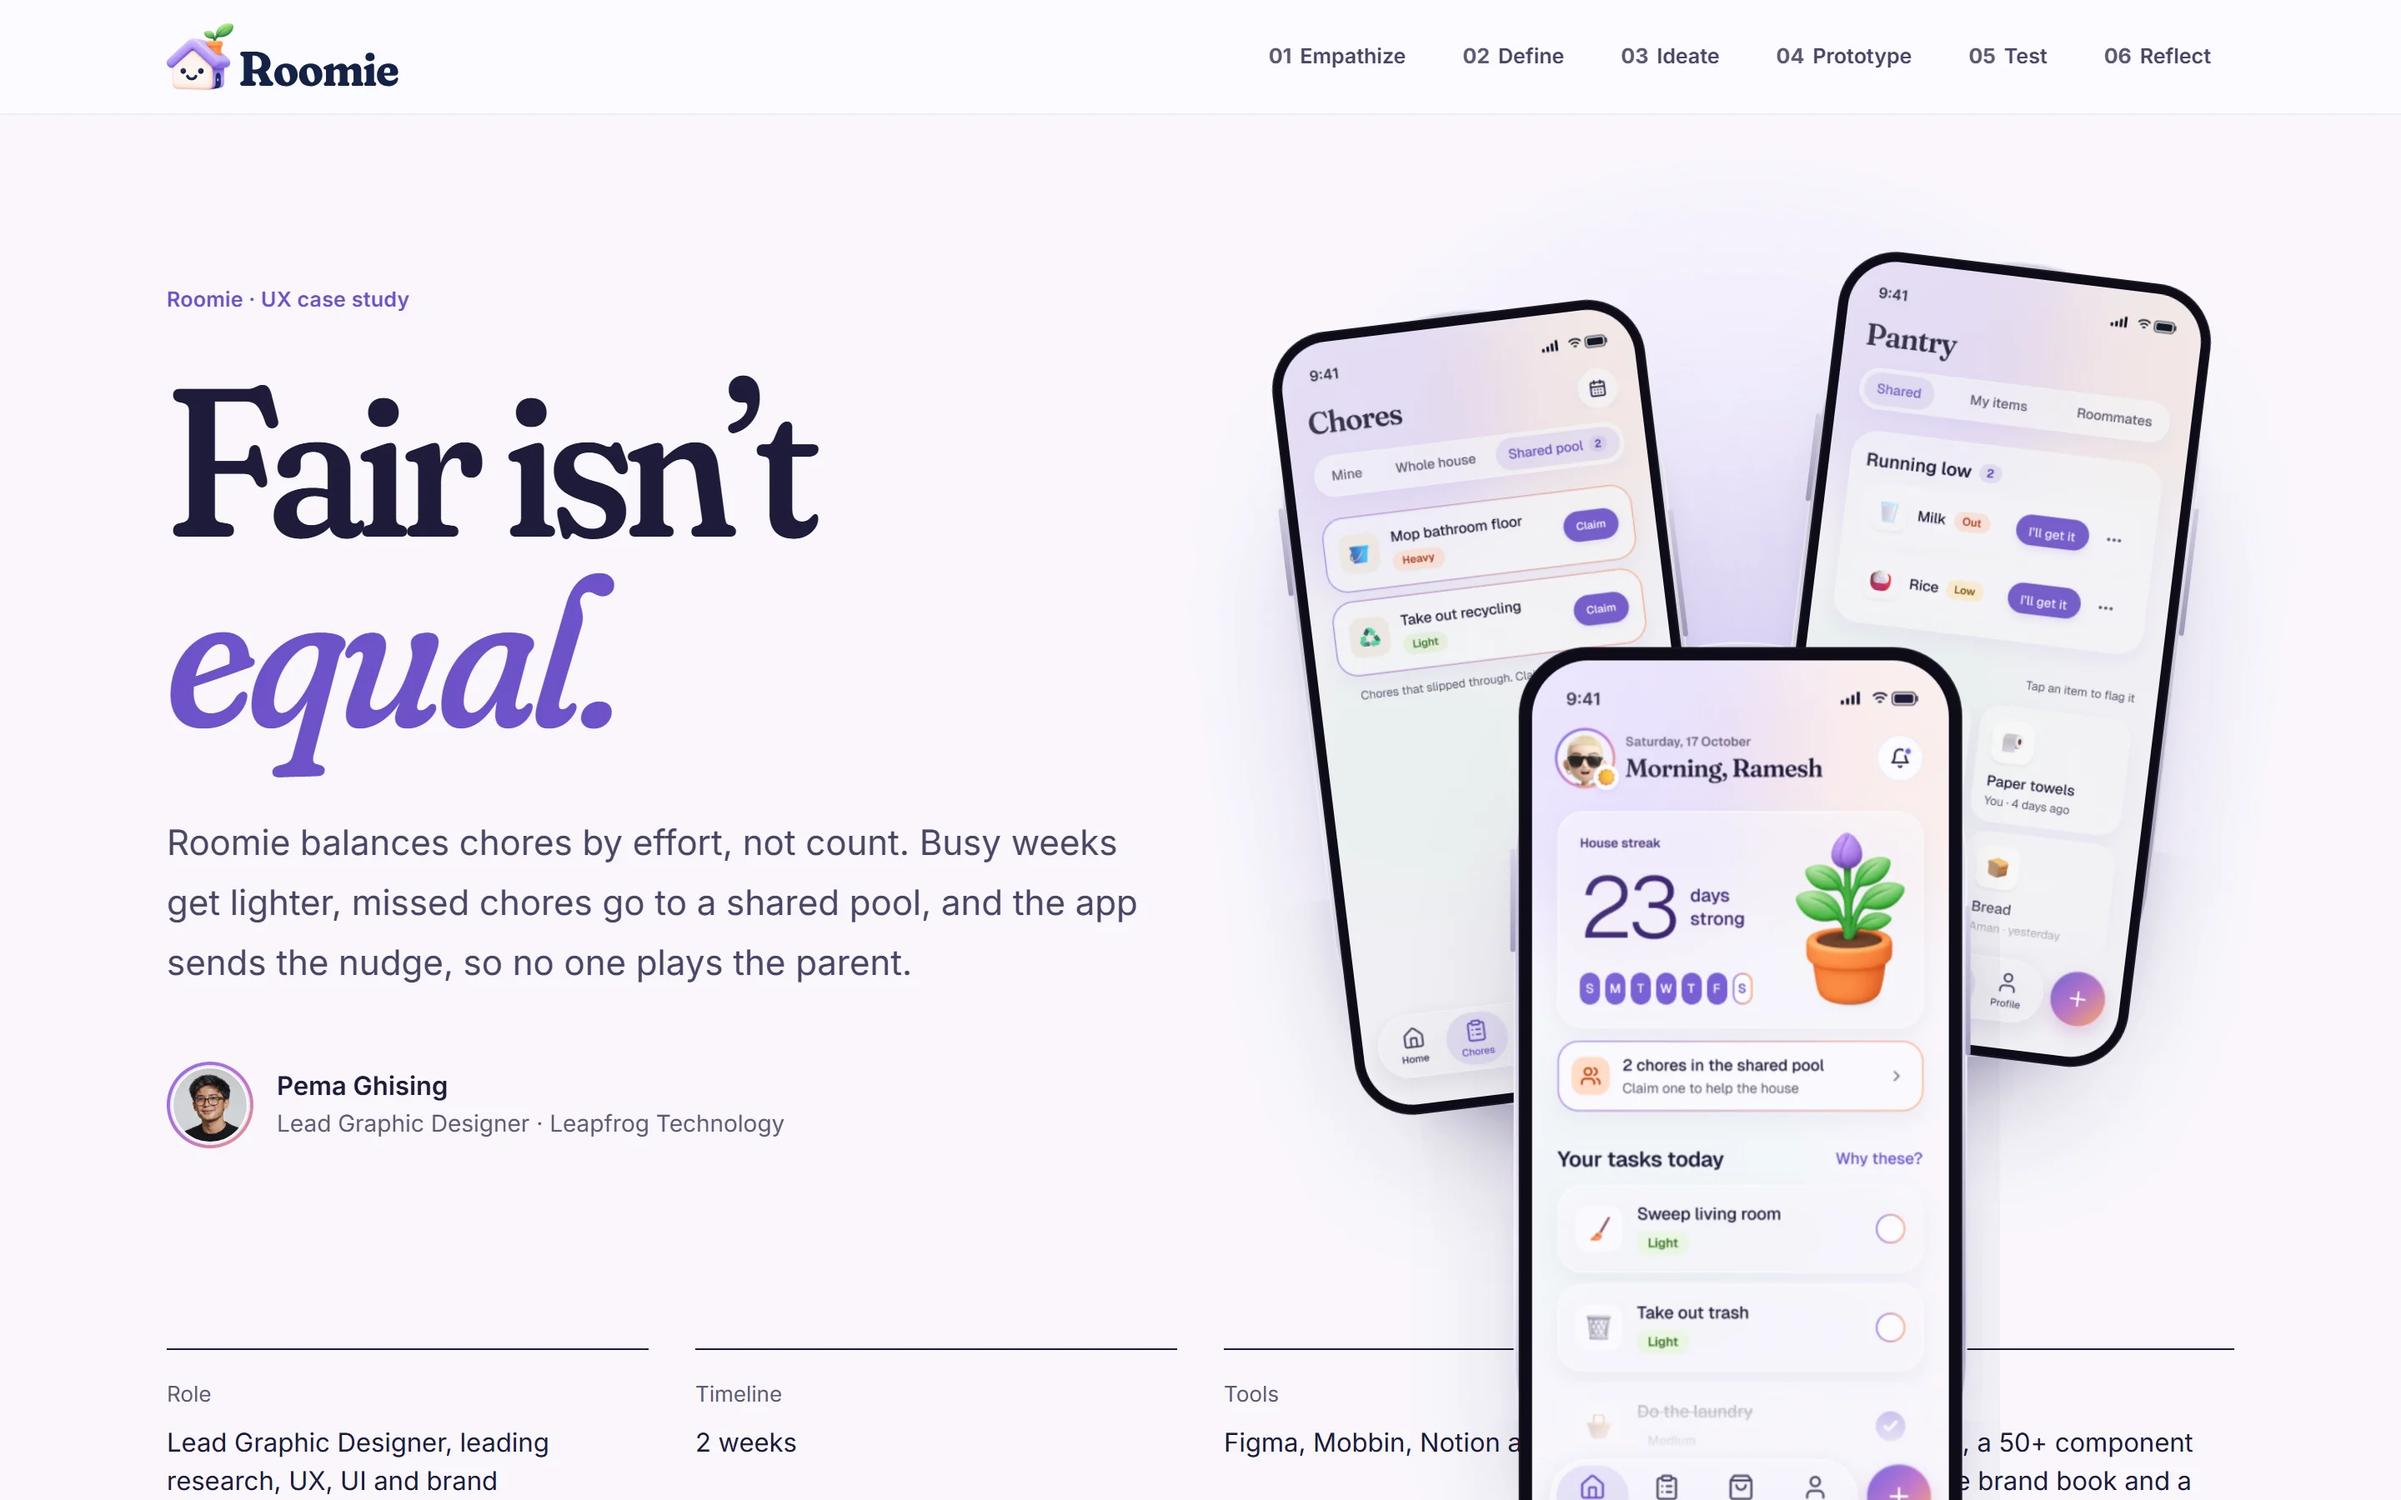
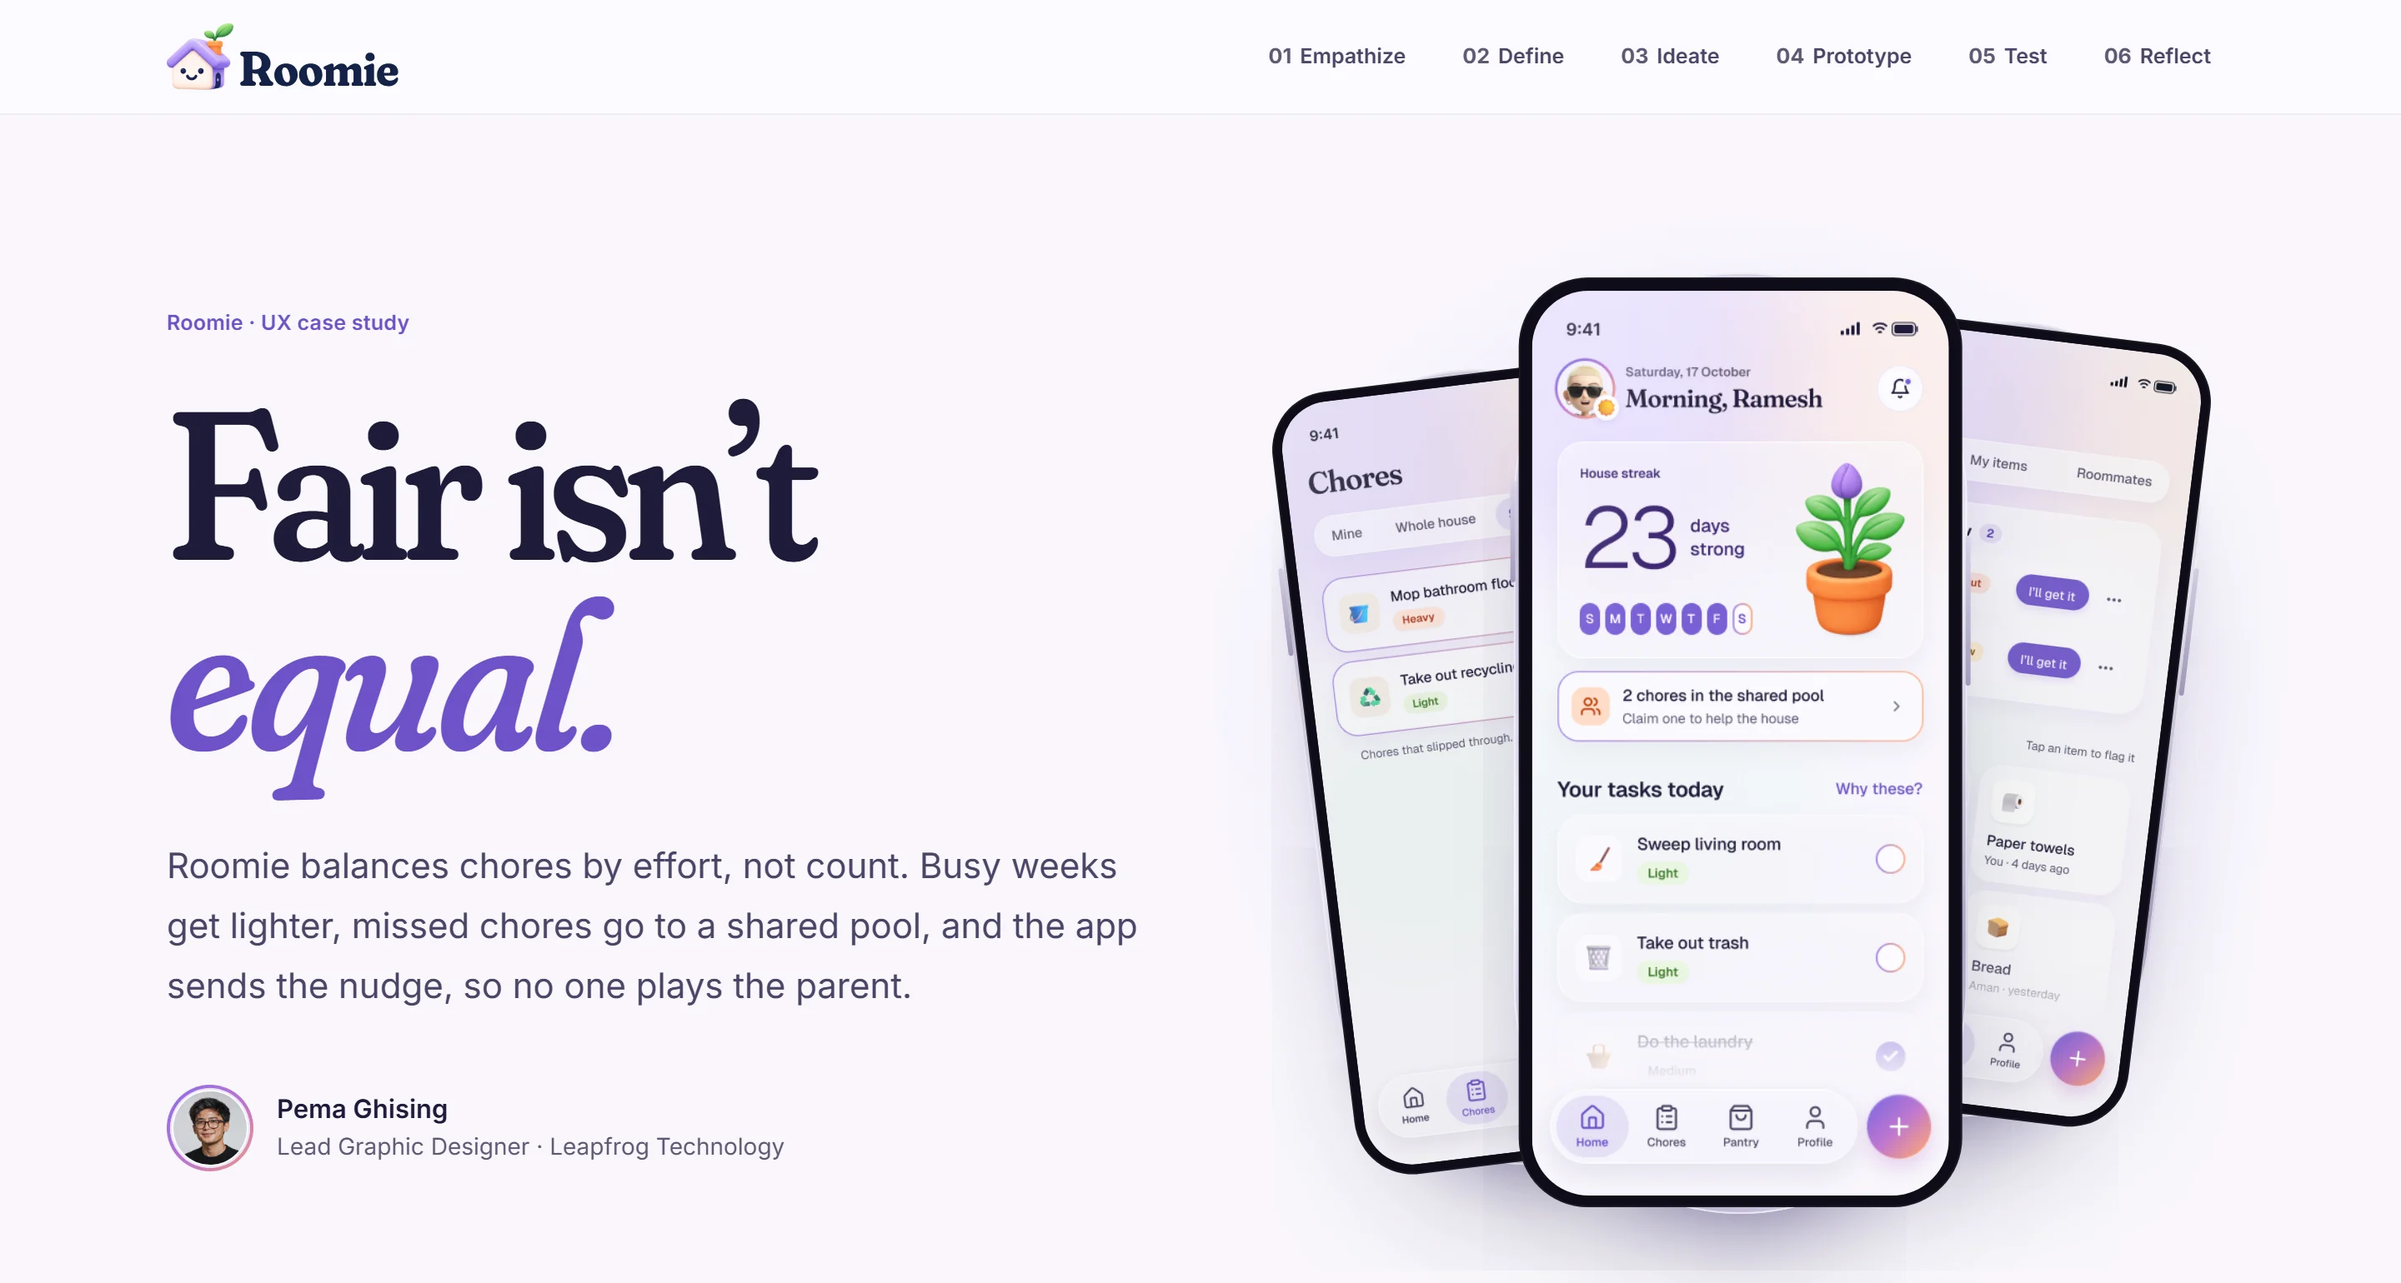
feat(site): hero becomes a 3D stage; README case study shot settled and cropped
- three phones on a glossy floor with reflections; Pantry and the shared pool hinge open from Home
- opens once, scroll only opens it further, the scene leans toward the pointer
- README: case study hero captured after its entrance, without the facts row

diff --git a/apps/site/src/sections/hero.css b/apps/site/src/sections/hero.css
@@ -74,39 +74,43 @@
 .hero-center .lede span { display: block; }   /* one sentence per line */
 .hero-cta { margin-top: 32px; display: flex; align-items: center; justify-content: center; gap: 16px; flex-wrap: wrap; }
 
-/* The first screen is the product alone: three full phones, nothing else. The promise follows on scroll. */
+/* The first screen is the product alone: three phones standing on a glossy lilac floor, in real 3D.
+   Home faces you; Pantry and the shared pool hinge open from its edges like a book. */
 .hero-stage {
   position: relative; display: grid; place-items: center;
-  --pw: clamp(220px, min(25vw, (100svh - 168px) / 2.1), 370px);
-  height: 100svh; min-height: 620px; padding-top: 72px;
+  --pw: clamp(200px, min(19vw, (100svh - 260px) / 2.08), 330px);
+  height: 100svh; min-height: 640px; padding-top: 0;
+  perspective: 2200px; perspective-origin: 50% 40%;
 }
-/* A fan of three real screens: Home in front, Pantry and the shared pool angled behind it */
-.hero-fan { position: relative; width: var(--pw); height: calc(var(--pw) * 2.08); }
-/* light behind the fan, and the shadow it casts on the floor */
-.hero-fan::before {
-  content: ""; position: absolute; z-index: 0; left: 50%; top: 46%; translate: -50% -50%;
-  width: calc(var(--pw) * 4.2); height: calc(var(--pw) * 2.4); border-radius: 50%;
-  background: radial-gradient(closest-side, rgba(164, 137, 237, .42), rgba(255, 180, 138, .18) 55%, transparent 100%);
-  filter: blur(30px); pointer-events: none;
+.hero-scene { position: relative; width: var(--pw); height: calc(var(--pw) * 2.08); transform-style: preserve-3d; }
+/* light pooling behind the phones */
+.hero-scene::before {
+  content: ""; position: absolute; left: 50%; top: 42%; translate: -50% -50%;
+  width: calc(var(--pw) * 4.6); height: calc(var(--pw) * 2.6); border-radius: 50%;
+  background: radial-gradient(closest-side, rgba(164, 137, 237, .45), rgba(255, 180, 138, .2) 58%, transparent 100%);
+  filter: blur(40px); transform: translateZ(-400px) scale(1.2); pointer-events: none;
 }
-.hero-fan::after {
-  content: ""; position: absolute; z-index: 0; left: 50%; bottom: calc(var(--pw) * -.06); translate: -50% 0;
-  width: calc(var(--pw) * 2.9); height: calc(var(--pw) * .22); border-radius: 50%;
-  background: radial-gradient(closest-side, rgba(31, 27, 58, .28), transparent);
-  filter: blur(10px); pointer-events: none;
+/* the floor line the phones stand on */
+.hero-scene::after {
+  content: ""; position: absolute; left: 50%; top: 100%; translate: -50% 0;
+  width: calc(var(--pw) * 4); height: 1px;
+  background: linear-gradient(90deg, transparent, rgba(122, 95, 214, .25), transparent);
+  pointer-events: none;
 }
-.hero-phone { --phone-w: var(--pw); position: absolute; left: 0; top: 0; }
+.hero-phone { --phone-w: var(--pw); position: absolute; left: 0; bottom: 0; transform-style: preserve-3d;
+  /* the reflection in the floor */
+  -webkit-box-reflect: below 10px linear-gradient(transparent 78%, rgba(255, 255, 255, .22)); }
 .hero-phone--main { z-index: 2; }
-.hero-phone--side { --phone-w: calc(var(--pw) * .86); top: calc(var(--pw) * .2); z-index: 1; }
-.hero-phone--l { left: calc(var(--pw) * -.66); rotate: -7deg; transform-origin: 100% 100%; }
-.hero-phone--r { left: calc(var(--pw) * .8); rotate: 7deg; transform-origin: 0% 100%; }
-.hero-phone--side .bezel { filter: saturate(.92) brightness(.985); }
+.hero-phone--side { --phone-w: calc(var(--pw) * .92); z-index: 1; }
+.hero-phone--l { left: calc(var(--pw) * -.9); transform-origin: 100% 50%; transform: translateZ(-90px) rotateY(40deg); }
+.hero-phone--r { left: calc(var(--pw) * .98); transform-origin: 0% 50%; transform: translateZ(-90px) rotateY(-40deg); }
+.hero-phone--side .bezel { filter: saturate(.94) brightness(.97); }
 .tag { flex: none; }
 .tag { display: inline-flex; align-items: center; padding: 4px 10px; border-radius: 999px; font-size: 13px; font-weight: 600; }
 .tag--heavy { background: var(--heavy-bg); color: var(--heavy-fg); }
 
 @media (max-width: 860px) {
-  .hero-stage { --pw: clamp(170px, min(56vw, (100svh - 150px) / 2.15), 280px); min-height: 520px; }
-  .hero-phone--l { left: calc(var(--pw) * -.58); }
-  .hero-phone--r { left: calc(var(--pw) * .72); }
+  .hero-stage { --pw: clamp(160px, min(46vw, (100svh - 240px) / 2.1), 260px); min-height: 540px; }
+  .hero-phone--l { left: calc(var(--pw) * -.78); }
+  .hero-phone--r { left: calc(var(--pw) * .86); }
 }

diff --git a/apps/site/src/sections/Hero.tsx b/apps/site/src/sections/Hero.tsx
@@ -29,15 +29,30 @@ export function Hero() {
   useEffect(() => {
     if (!motionOK || !root.current) return;
     const ctx = gsap.context(() => {
-      // The fan opens: Home rises, then the side phones slide out from behind it.
-      gsap.from(".hero-phone--main", { opacity: 0, y: 60, duration: 1.3, ease: "expo.out" });
-      gsap.from(".hero-phone--l", { opacity: 0, x: 120, rotate: 0, duration: 1.4, delay: 0.25, ease: "expo.out" });
-      gsap.from(".hero-phone--r", { opacity: 0, x: -120, rotate: 0, duration: 1.4, delay: 0.25, ease: "expo.out" });
-      // On scroll the fan spreads a little and the front layers lift faster than the back ones.
-      const scroll = { trigger: root.current, start: "top top", end: "bottom top", scrub: true };
-      gsap.to(".hero-fan", { yPercent: -8, scale: 0.94, ease: "none", scrollTrigger: scroll });
-      gsap.to(".hero-phone--l", { xPercent: -10, rotate: -10, ease: "none", scrollTrigger: scroll });
-      gsap.to(".hero-phone--r", { xPercent: 10, rotate: 10, ease: "none", scrollTrigger: scroll });
+      // GSAP owns every transform here, so the entrance, scroll and pointer layers never fight.
+      gsap.set(".hero-phone--l", { rotationY: 40, z: -90 });
+      gsap.set(".hero-phone--r", { rotationY: -40, z: -90 });
+      // Open once: Home rises onto the floor, then the side phones swing open from its edges.
+      gsap.from(".hero-phone--main", { opacity: 0, y: 70, duration: 1.4, ease: "expo.out" });
+      gsap.from(".hero-phone--l", { opacity: 0, rotationY: 88, duration: 1.8, delay: 0.35, ease: "expo.out" });
+      gsap.from(".hero-phone--r", { opacity: 0, rotationY: -88, duration: 1.8, delay: 0.35, ease: "expo.out" });
+      // Scrolling keeps opening the book flat while the scene sinks back.
+      const scroll = { trigger: root.current, start: "top top", end: "bottom top", scrub: 0.6 };
+      gsap.to(".hero-phone--l", { rotationY: 18, ease: "none", scrollTrigger: scroll, immediateRender: false });
+      gsap.to(".hero-phone--r", { rotationY: -18, ease: "none", scrollTrigger: scroll, immediateRender: false });
+      gsap.to(".hero-scene", { yPercent: -8, scale: 0.9, ease: "none", scrollTrigger: scroll });
+      // The scene leans a few degrees toward the pointer.
+      const scene = root.current?.querySelector<HTMLElement>(".hero-scene");
+      if (scene && window.matchMedia("(pointer: fine)").matches) {
+        const rx = gsap.quickTo(scene, "rotationX", { duration: 0.9, ease: "power3.out" });
+        const ry = gsap.quickTo(scene, "rotationY", { duration: 0.9, ease: "power3.out" });
+        const onMove = (e: PointerEvent) => {
+          ry(((e.clientX / window.innerWidth) - 0.5) * 10);
+          rx(-((e.clientY / window.innerHeight) - 0.5) * 6);
+        };
+        window.addEventListener("pointermove", onMove);
+        return () => window.removeEventListener("pointermove", onMove);
+      }
     }, root);
     return () => ctx.revert();
   }, [motionOK]);
@@ -60,7 +75,7 @@ export function Hero() {
       </header>
 
       <div className="hero-stage">
-        <div className="hero-fan">
+        <div className="hero-scene">
           <Phone className="hero-phone hero-phone--side hero-phone--l" src="/screens/p1-pantry.webp" alt="Roomie Pantry: milk out, rice low, each with I'll get it" priority />
           <Phone className="hero-phone hero-phone--side hero-phone--r" src="/screens/c1c-shared-pool.webp" alt="Roomie Chores: the shared pool, chores anyone can claim" priority />
           <Phone className="hero-phone hero-phone--main" src="/screens/h1-home.webp" alt="Roomie Home: a 23 day house streak, the plant in bloom, and today's tasks" priority />
